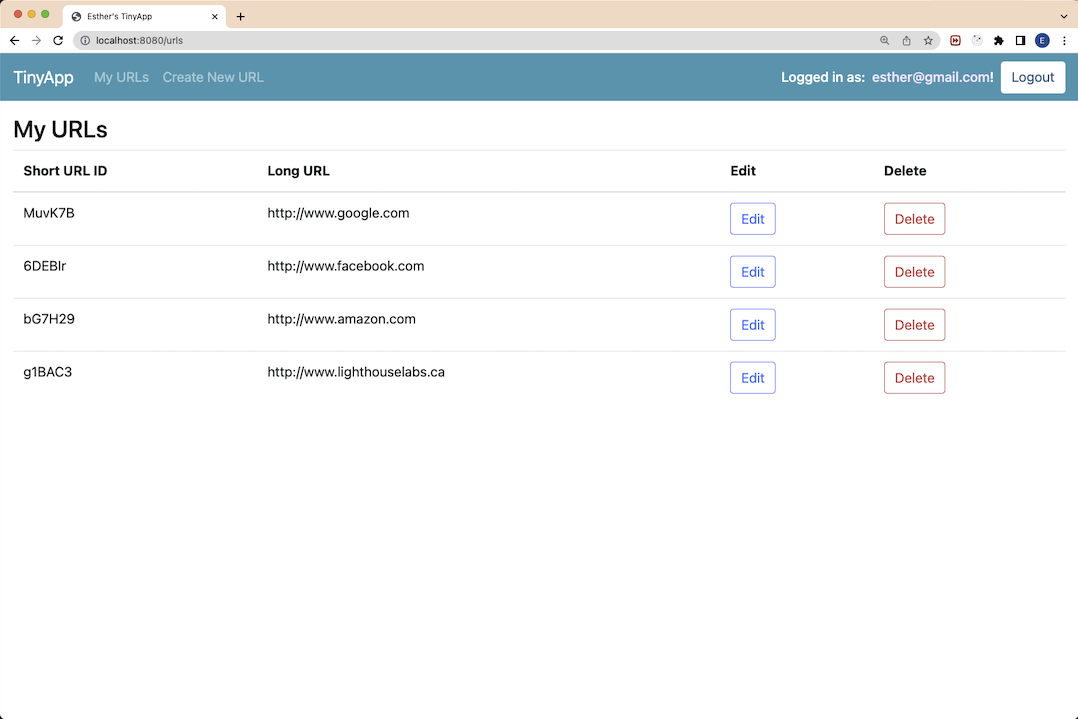
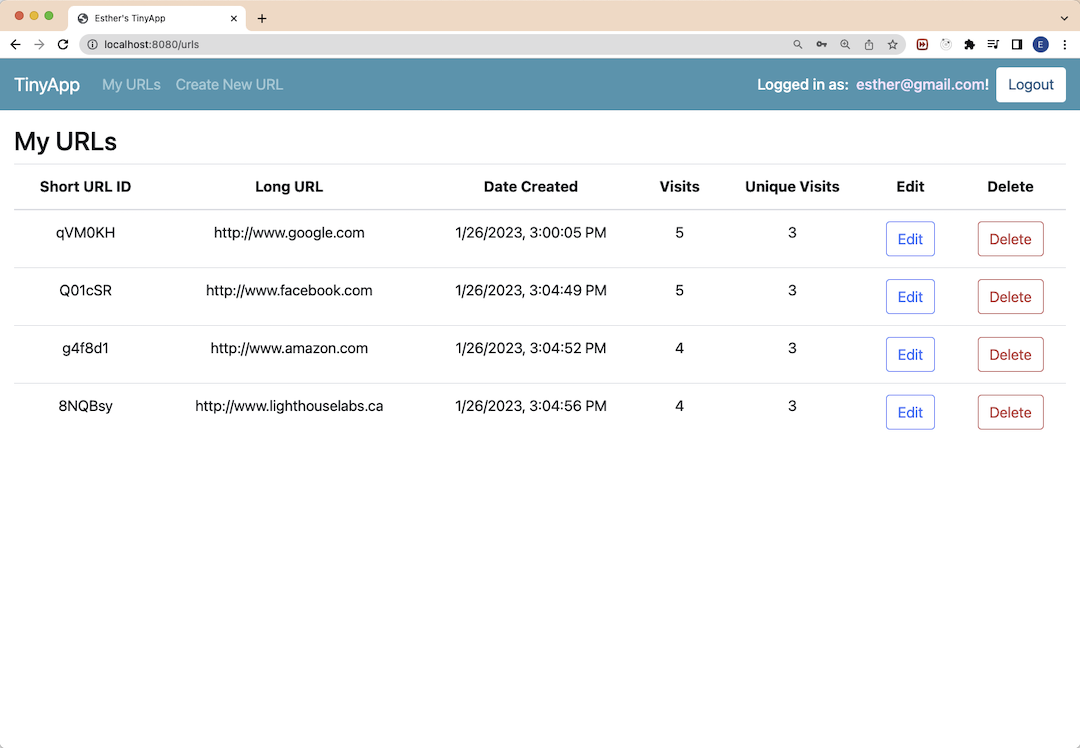
Add sthe date short URL created and improve the main page

diff --git a/express_server.js b/express_server.js
@@ -62,45 +62,49 @@ app.get("/urls", (req, res) => {
 app.post("/urls", (req, res) => {
   const userID = req.session.user_id;
   if (!userID) {
-    res.status(400).end("Cannot shorten URL when not logged in.\n");
-  } else {
-    const shortURL = generateRandomString(6);
-    const longURL = req.body.longURL;
-    const userID = req.session.user_id;
-    const userURLDatabase = urlsForUser(userID, urlDatabase);
-    const templateVars = {
-      user: users[userID],
-      error: "",
-    };
-
-    // If longURL already exists
-    // or if the longURL length is 0 or doesn't include http:// or https://
-    // show error message below the edit section of the urls_new page
-    if (
-      Object.values(userURLDatabase).filter(
-        (shortURL) => shortURL.longURL === longURL
-      ).length
-    ) {
-      templateVars.error = "This URL already exists.";
-      return res.render("urls_new", templateVars);
-    } else if (
-      !longURL.length ||
-      !(longURL.includes("http://") || longURL.includes("https://"))
-    ) {
-      templateVars.error = "Please input a valid URL.";
-      return res.render("urls_new", templateVars);
-    }
-
-    // reset visit data when shortURL is created or edited
-    urlDatabase[shortURL] = {
-      longURL,
-      userID,
-      uniqueVisits: [],
-      timestamps: [],
-      visitCount: 0,
-    };
-    res.redirect(`/urls/${shortURL}`);
+    return res.status(400).end("Cannot shorten URL when not logged in.\n");
   }
+
+  const shortURL = generateRandomString(6);
+  const longURL = req.body.longURL;
+  const userURLDatabase = urlsForUser(userID, urlDatabase);
+  const templateVars = {
+    user: users[userID],
+    error: "",
+  };
+
+  // If longURL already exists
+  // or if the longURL length is 0 or doesn't include http:// or https://
+  // show error message below the edit section of the urls_new page
+  if (
+    Object.values(userURLDatabase).filter(
+      (shortURL) => shortURL.longURL === longURL
+    ).length
+  ) {
+    templateVars.error = "This URL already exists.";
+    return res.render("urls_new", templateVars);
+  } else if (
+    !longURL.length ||
+    !(longURL.includes("http://") || longURL.includes("https://"))
+  ) {
+    templateVars.error = "Please input a valid URL.";
+    return res.render("urls_new", templateVars);
+  }
+
+  // store the date and time when shortURL is created
+  const currentDate = new Date(Date.now());
+  const localeDate = currentDate.toLocaleString(userLocale);
+
+  // reset visit data when shortURL is created or edited
+  urlDatabase[shortURL] = {
+    longURL,
+    userID,
+    createdDate: localeDate,
+    uniqueVisits: [],
+    timestamps: [],
+    visitCount: 0,
+  };
+  res.redirect(`/urls/${shortURL}`);
 });
 
 /*--------------------- Create New ShortURL Route ---------------------*/
@@ -129,6 +133,7 @@ app.get("/urls/:id", (req, res) => {
   const templateVars = {
     id: shortURL,
     longURL: userURLDatabase[shortURL]?.longURL,
+    createdDate: userURLDatabase[shortURL]?.createdDate,
     visitCount: urlDatabase[shortURL]?.visitCount,
     uniqueVisitCount: urlDatabase[shortURL]?.uniqueVisits.length,
     timestamps: urlDatabase[shortURL]?.timestamps,
@@ -203,6 +208,7 @@ app.put("/urls/:id/", (req, res) => {
       id: shortURL,
       longURL: userURLDatabase[shortURL].longURL,
       visitCount: urlDatabase[shortURL]?.visitCount,
+      createdDate: urlDatabase[shortURL]?.createdDate,
       uniqueVisitCount: urlDatabase[shortURL]?.uniqueVisits.length,
       timestamps: urlDatabase[shortURL]?.timestamps,
       user: users[userID],

diff --git a/README.md b/README.md
@@ -31,29 +31,31 @@ The front-end is implemented using Bootstrap with a little bit of inline CSS.
 
 #### Create New Short URL Page
 
-- Enter the url to shorten. A 6 characters-long alphanumeric shortURL will be randomly generated.
-- In order to use the shortURL, follow the route _http://localhost:8080/u/[shortURL]_
+- Enter the URL to shorten. A 6 characters-long alphanumeric short URL will be randomly generated.
+- In order to use the short URL, follow the route _http://localhost:8080/u/[shortURL]_
 - If it does not start with http:// or https:// or if the field is left empty, it will return an error.
 
   !["Screenshot of /url/new page"](https://github.com/esther-sh-choi/tinyapp/blob/main/docs/urls_new.png?raw=true)
 
 #### Main Page
 
-- Keep track of all of your short URLs and manage them (ie., edit and delete).
-- Other users cannot view or manipulate your url data.
+- Keep track of all of user's short URLs and manage them (ie., edit and delete).
+- The tables displays the long URL, date created, number of visits, and the number of unique visits for each short URL.
+- Other users cannot view or manipulate your URL data.
 
   !["Screenshot of /url page"](https://github.com/esther-sh-choi/tinyapp/blob/main/docs/urls_index.png?raw=true)
 
 #### Short URL Detail/Edit Page
 
-- Edit the url associated with this particular short ID.
+- Shows which route the selected short URL redirects to.
+- Shows the date and time when URL was created.
+- Edit the URL associated with this particular short ID.
 - If it does not start with http:// or https:// or if the field is left empty, it will return an error.
 - This page displays:
-  - the total number of visits using the shortURL;
+  - the total number of visits using the short URL;
   - the total number of unique visits (one visit per _visitor ID_);
   - and the history of all the visits (visitor ID and timestamp).
-- What to know about the visitor ID:
-
+- _What to know about the visitor ID:_
   - The 8 character alphanumeric visitor ID is generated at the time of registration and it is stored to the user's database.
   - Each time user logs in, this unique visitor ID is stored to the cookie until sign out.
   - If the user is not logged in, the visitor ID will be generated and stored in the cookie and will remain in the browser until cookie is cleared or expires.
@@ -64,7 +66,7 @@ The front-end is implemented using Bootstrap with a little bit of inline CSS.
 
 !["Screenshot of /url/:id page error message"](https://github.com/esther-sh-choi/tinyapp/blob/main/docs/error_message.png?raw=true)
 
-#### Short URL Detail/Edit Page (Mobile)
+#### Short URL Detail/Edit Page (Portrait Mode)
 
 - This is an example of the Detail page responsve design using Bootstrap and CSS Flexbox.
   !["Screenshot of /url/:id page responsive design"](https://github.com/esther-sh-choi/tinyapp/blob/main/docs/urls_show_responsive.png?raw=true)
